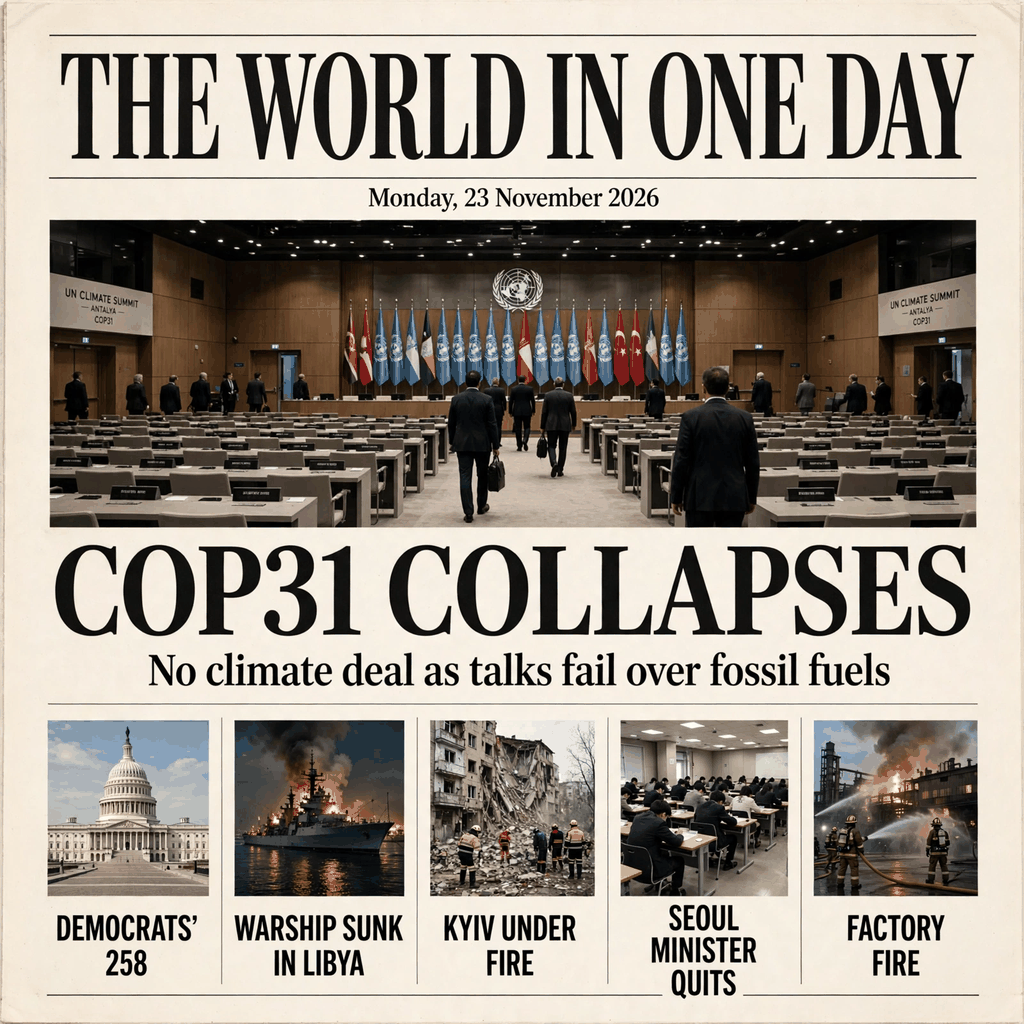
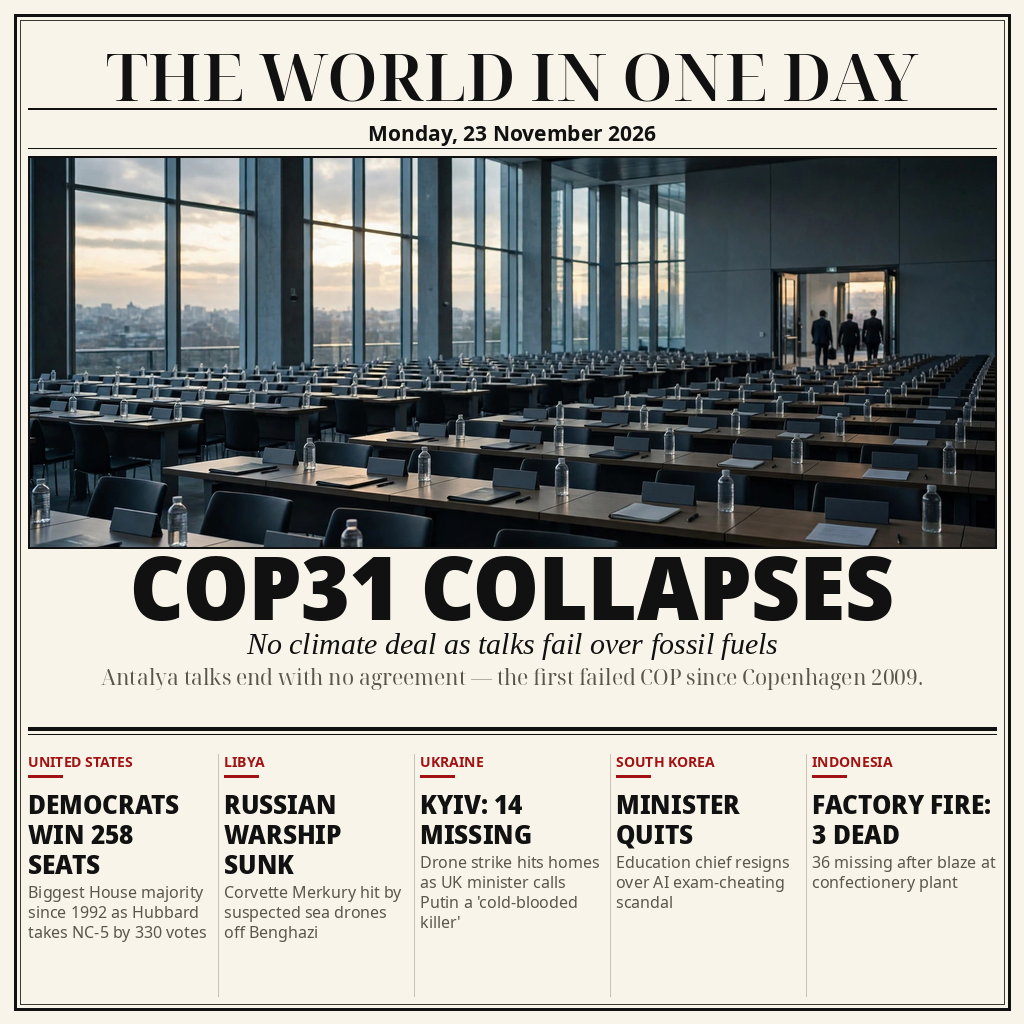
Rebuild in post-opening session: fresh front page, main.ts, README, LICENSE

diff --git a/main.ts b/main.ts
@@ -1,7 +1,9 @@
 // news-image-20261123 entry (Node 22, standard library only).
-// The image is entry.png beside this file; the program copies it to the
+//
+// The entry is the file entry.png next to this script: a newspaper front
+// page summing up Monday 23 November 2026. This program copies it to the
 // output directory the grader provides (/output, or MAKEFUN_OUTPUT_DIR
-// when run locally), so the judge sees exactly the bytes of that file.
+// when run locally) so the judge sees exactly the bytes of that file.
 //
 // Run locally: mkdir -p out && MAKEFUN_OUTPUT_DIR=out node main.ts
 

diff --git a/README.md b/README.md
@@ -8,7 +8,7 @@ A newspaper front page summing up the world's news of **Monday, 23 November 2026
 
 ## The image
 
-`entry.png` (1024×1024, 530,059 bytes) is a front page headlined **COP31 COLLAPSES**, with five panels below it:
+`entry.png` (1024×1024) is a front page headlined **COP31 COLLAPSES**, with five panels below it:
 
 - **COP31 COLLAPSES** — the UN climate talks in Antalya end with no deal, the first collapse since Copenhagen 2009, after the final draft dropped any mention of fossil fuels.
 - **DEMOCRATS' 258** — Democrats take at least 258 US House seats, their biggest majority since 1992, after Chuck Hubbard flips a North Carolina seat by 330 votes.
@@ -18,6 +18,10 @@ A newspaper front page summing up the world's news of **Monday, 23 November 2026
 - **FACTORY FIRE** — 3 killed and 36 missing after a fire at a confectionery factory in Indonesia.
 
 Every story was verified against live reporting on 23 November 2026 — BBC, Reuters, CNN, AP, Le Monde and Yonhap.
+
+## How it was made
+
+The hero photograph (an empty COP31 hall in Antalya, delegates walking out) was generated for this entry; the masthead, headlines and panels were typeset over it so every word is exact and legible. The layout is a classic broadsheet: one big story on top, five more in a strip below.
 
 ## Run it
 
